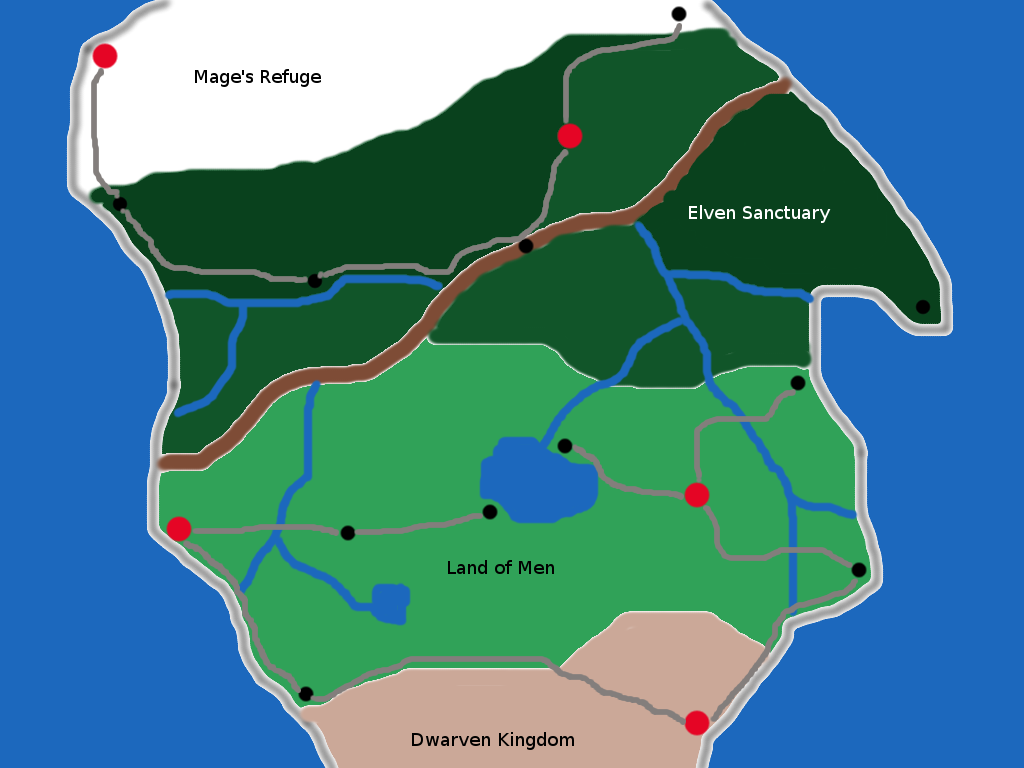
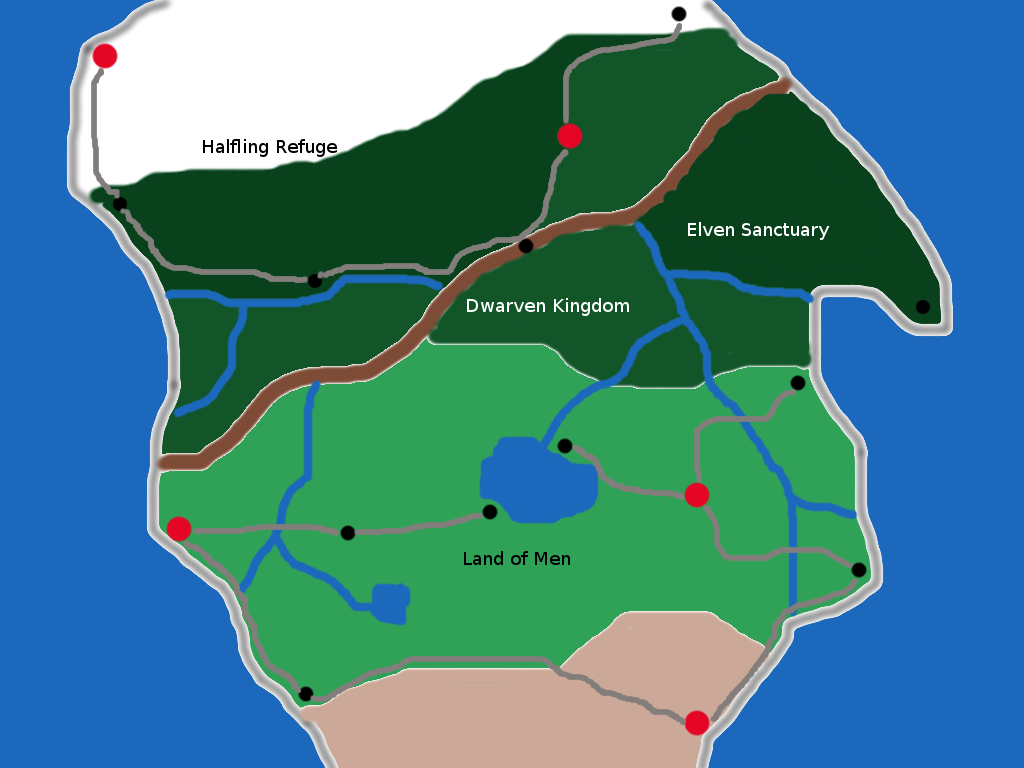
Added Worldbuilding info; Created additional Controllers

diff --git a/_controllers/game_controller.php b/_controllers/game_controller.php
@@ -1,0 +1,28 @@
+<?php
+    class GameController{
+        /**
+         * Start a new game
+         */
+        public function NewGame(){
+
+        }
+
+        /**
+         * Save the game
+         */
+        public function SaveGame(){
+            try{
+                $db = DB::getInstance();
+                $command = "INSERT INTO games(LoginName, CharacterName, CurrentStage) VALUES (:loginname, :charname, :currentstage)";
+                $query = $command->execute(array(
+                    ':loginname' => $_SESSION['current-user']->username,
+                    ':charname' => $_SESSION['character']->characterid,
+                    ':currentstage' => $_SESSION['current-stage']
+                ));
+                $result = $command->fetch(PDO::FETCH_ASSOC);
+            }catch(PDOException $e){
+                // That's an error
+            }
+        }
+    }
+?>

diff --git a/index.php b/index.php
@@ -3,7 +3,7 @@
     ini_set('display_errors',1);
     error_reporting(E_ALL);
     
-    // require_once all the models
+    // Include all the models
     require_once('_models/User.php');
     /*
     require_once('_models/Character.php');
@@ -16,6 +16,10 @@
 
     // Include the database connection
     require_once('_controllers/db_connection.php');
+
+    // Include the other controllers
+    require_once('_controllers/game_controller.php');
+    require_once('_controllers/login_controller.php');
 
     // Start a session
     session_start();

diff --git a/_controllers/login_controller.php b/_controllers/login_controller.php
@@ -1,0 +1,25 @@
+<?php
+    class LoginController{
+
+        /**
+         * Let the user login
+         */
+        public function login(){
+            return;
+        }
+
+        /**
+         * Logout the current user
+         */
+        public function logout(){
+            return;
+        }
+
+        /**
+         * Let potential users register
+         */
+        public function register(){
+            return;
+        }
+    }
+?>
